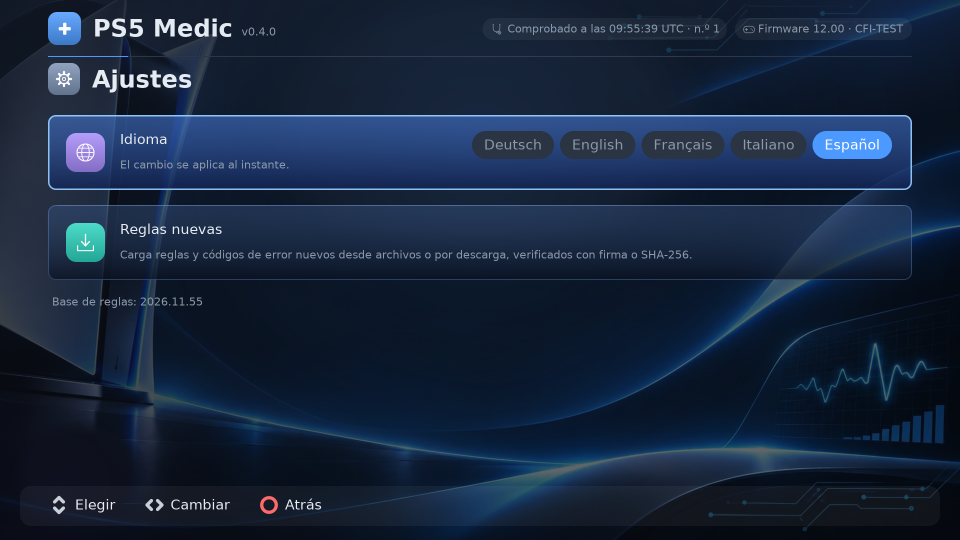
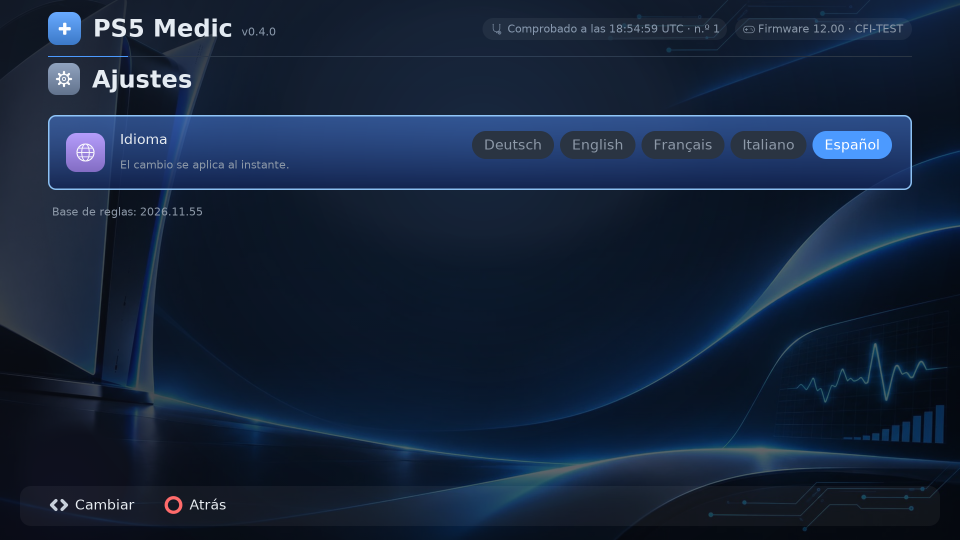
Einstellungen zeigen nur noch die Sprache: doppeltes Regel-Update entfernt, erreichbar ueber Mehr

Changed region(s): [[0.0312, 0.3556, 0.9688, 0.563], [0.0312, 0.9185, 0.3438, 0.9481], [0.6562, 0.0296, 0.6875, 0.0593]]

diff --git a/tests/test_ui.cpp b/tests/test_ui.cpp
@@ -931,13 +931,8 @@ void rules_update_flow_tests() {
         App app(svc, l);
         run_check_via_ui(app, cv);
         press(app, {Button::Circle});
-        more_open(app, 6);  // Einstellungen liegen unter Mehr
-        CHECK(app.screen() == App::Screen::Settings, "Update-Flow: Einstellungen");
-        app.render(cv);
-        press(app, {Button::Down});
-        app.render(cv);
-        press(app, {Button::Cross});
-        CHECK(app.screen() == App::Screen::RulesUpdate && svc.update_checks == 1 && app.lang() == l, "Update-Flow: Kreuz auf Regel-Update oeffnet den Bildschirm (Sprache bleibt)");
+        more_open(app, 2);  // Mehr -> Regeln aktualisieren
+        CHECK(app.screen() == App::Screen::RulesUpdate && svc.update_checks == 1 && app.lang() == l, "Update-Flow: Kreuz auf Regeln aktualisieren oeffnet den Bildschirm (Sprache bleibt)");
 
         // keine Datei: nichts kann ausgeloest werden
         app.render(cv);
@@ -945,7 +940,7 @@ void rules_update_flow_tests() {
         app.handle(Button::Cross);
         CHECK(app.screen() == App::Screen::RulesUpdate && svc.installs == 0 && svc.rollbacks == 0, "Update-Flow: ohne Datei tut keine Taste etwas ausser Kreis");
         press(app, {Button::Circle});
-        CHECK(app.screen() == App::Screen::Settings, "Update-Flow: Kreis geht zu den Einstellungen");
+        CHECK(app.screen() == App::Screen::Maintenance, "Update-Flow: Kreis geht zurueck zu Mehr");
 
         // abgelehnt: jeder Grund wird dargestellt
         svc.offer.state = State::Rejected;
@@ -974,7 +969,7 @@ void rules_update_flow_tests() {
         CHECK(svc.installs == 1 && app.finding_count() == 0, "Update-Flow: Kreuz installiert, die alten Befunde gelten nicht mehr");
         app.render(cv);
         press(app, {Button::Cross});
-        CHECK(app.screen() == App::Screen::Settings, "Update-Flow: nach der Installation zurueck zu den Einstellungen");
+        CHECK(app.screen() == App::Screen::Maintenance, "Update-Flow: nach der Installation zurueck zu Mehr");
         press(app, {Button::Circle});
         app.render(cv);  // Start: kein Ergebnis mehr
 
@@ -986,12 +981,12 @@ void rules_update_flow_tests() {
         App app2(fail, l);
         run_check_via_ui(app2, cv);
         press(app2, {Button::Circle});
-        more_open(app2, 6);
-        press(app2, {Button::Down, Button::Cross, Button::Cross});
+        more_open(app2, 2);
+        press(app2, {Button::Cross});
         CHECK(fail.installs == 1 && app2.screen() == App::Screen::RulesUpdate, "Update-Flow: Fehlschlag wird angezeigt");
         app2.render(cv);
         press(app2, {Button::Cross});
-        CHECK(app2.screen() == App::Screen::Settings, "Update-Flow: nach dem Fehlschlag zurueck");
+        CHECK(app2.screen() == App::Screen::Maintenance, "Update-Flow: nach dem Fehlschlag zurueck");
         fail.install_result.error = "voellig_unbekannt";  // unbekannte Kennung: allgemeiner Text
         press(app2, {Button::Cross, Button::Cross});
         app2.render(cv);
@@ -1001,7 +996,7 @@ void rules_update_flow_tests() {
         svc.offer.old_version = "2026.12.01";
         svc.offer.can_rollback = true;
         svc.offer.installed_version = "2026.12.01";
-        press(app, {Button::Cross, Button::Cross});  // Start steht auf Einstellungen, dort auf Regel-Update
+        more_open(app, 2);  // Start -> Mehr -> Regeln aktualisieren
         app.render(cv);
         press(app, {Button::Triangle});
         CHECK(svc.rollbacks == 0, "Update-Flow: Dreieck fragt nur nach, setzt nichts zurueck");
@@ -1051,16 +1046,15 @@ void rules_update_service_tests() {
 
         App app(svc);
         Canvas cv(App::kWidth, App::kHeight);
-        more_open(app, 6);
-        press(app, {Button::Down, Button::Cross});
-        CHECK(app.screen() == App::Screen::RulesUpdate, "Update-E2E: Einstellungen -> Regel-Update");
+        more_open(app, 2);
+        CHECK(app.screen() == App::Screen::RulesUpdate, "Update-E2E: Mehr -> Regeln aktualisieren");
         app.render(cv);
         press(app, {Button::Cross});
         app.render(cv);
         CHECK(slurp(t.dir / "fs/data/ps5medic/knowledge/rules.json") == new_text, "Update-E2E: Kreuz installiert die neue Datei");
         CHECK(svc.run_check().rules_version == "2026.12.01", "Update-E2E: die neuen Regeln gelten sofort");
 
-        press(app, {Button::Cross, Button::Down, Button::Cross});  // zurueck, wieder oeffnen
+        press(app, {Button::Cross, Button::Cross});  // zurueck nach Mehr, wieder oeffnen
         CHECK(svc.check_rule_update().can_rollback, "Update-E2E: Rollback ist moeglich");
         press(app, {Button::Triangle, Button::Cross});
         CHECK(!fs::exists(t.dir / "fs/data/ps5medic/knowledge/rules.json"), "Update-E2E: Rollback legt die Datei beiseite");
@@ -1101,8 +1095,7 @@ void rules_download_flow_tests() {
         svc.offer.old_version = "2026.11.08";
         svc.offer.old_rule_count = 22;
         App app(svc, l);
-        more_open(app, 6);  // Start -> Mehr -> Einstellungen
-        press(app, {Button::Down, Button::Cross});  // -> Regel-Update
+        more_open(app, 2);  // Start -> Mehr -> Regeln aktualisieren
         CHECK(app.screen() == App::Screen::RulesUpdate && svc.downloads == 0, "Download-Flow: Regel-Update offen, noch nichts geholt");
         app.render(cv);
 
@@ -1143,7 +1136,7 @@ void rules_download_flow_tests() {
         app.render(cv);
         press(app, {Button::Cross});
         CHECK(svc.installs == 1, "Download-Flow: installiert wird erst mit dem Kreuz auf dem Angebot");
-        press(app, {Button::Cross});  // Fertig-Bildschirm -> Einstellungen
+        press(app, {Button::Cross});  // Fertig-Bildschirm -> Mehr
 
         // Fehlschlag: Meldung, nichts angeboten, Kreuz kehrt zurueck
         svc.download_result = {};
@@ -1151,7 +1144,7 @@ void rules_download_flow_tests() {
         svc.download_result.http_status = 404;
         svc.download_result.file = "rules.json";
         svc.offer = RuleUpdateOffer{};
-        press(app, {Button::Down, Button::Cross});  // Einstellungen: Regel-Update
+        press(app, {Button::Cross});  // Mehr: Regeln aktualisieren
         CHECK(app.screen() == App::Screen::RulesUpdate, "Download-Flow: wieder im Regel-Update");
         press(app, {Button::Square, Button::Cross});
         app.render(cv);
@@ -1226,8 +1219,7 @@ void rules_download_service_tests() {
     };
     auto clock = [] { return std::string("20261109T140000Z"); };
     auto go_to_update = [](App& app) {
-        more_open(app, 6);
-        press(app, {Button::Down, Button::Cross});
+        more_open(app, 2);
     };
 
     {  // gueltig signiert: angeboten und installiert
@@ -1514,14 +1506,14 @@ void shoulder_and_stick_flow_tests() {
         press(a, {Button::Circle});
         CHECK(a.screen() == App::Screen::Start && !a.quit_requested(), "Mehr: Kreis fuehrt ins Startbild");
     }
-    {  // Einstellungen: L1/R1 wie Hoch/Runter
+    {  // Einstellungen: nur die Sprache (das Regel-Update liegt unter Mehr, nicht doppelt hier)
         App a(svc);
         more_open(a, 6);
         CHECK(a.screen() == App::Screen::Settings, "Einstellungen offen");
-        press(a, {Button::R1, Button::Cross});
-        CHECK(a.screen() == App::Screen::RulesUpdate, "Einstellungen: R1 waehlt Regel-Update");
-        press(a, {Button::Circle, Button::L1, Button::Right});
-        CHECK(a.lang() == Lang::En, "Einstellungen: L1 waehlt die Sprache, Rechts wechselt sie");
+        press(a, {Button::Down, Button::R1});
+        CHECK(a.screen() == App::Screen::Settings, "Einstellungen: Runter/R1 oeffnen kein Regel-Update");
+        press(a, {Button::Right});
+        CHECK(a.lang() == Lang::En, "Einstellungen: Rechts wechselt die Sprache");
     }
     {  // Details: zwischen den Befunden blaettern
         App a(svc);
@@ -2542,8 +2534,7 @@ void codes_update_flow_tests() {
     Canvas cv(App::kWidth, App::kHeight);
     Strings::missing().clear();
     auto go_to_update = [](App& a) {
-        more_open(a, 6);
-        press(a, {Button::Down, Button::Cross});
+        more_open(a, 2);
     };
     auto ready = [](const std::string& v, std::size_t n) {
         RuleUpdateOffer o;
@@ -2573,8 +2564,8 @@ void codes_update_flow_tests() {
         CHECK(svc.codes_installs == 1 && svc.installs == 0, "Codes-Flow: Kreuz installiert nur die Fehlercodes");
         a.render(cv);
         press(a, {Button::Cross});
-        CHECK(a.screen() == App::Screen::Settings, "Codes-Flow: Kreuz kommt zurueck");
-        press(a, {Button::Circle, Button::Circle});
+        CHECK(a.screen() == App::Screen::Maintenance, "Codes-Flow: Kreuz kommt zurueck");
+        press(a, {Button::Circle});
         CHECK(a.screen() == App::Screen::Start && a.finding_count() == 1, "Codes-Flow: Fehlercodes aendern die Befunde nicht");
         open_error_codes_via_ui(a);
         CHECK(a.selected_error_id() == svc.errors_after_codes_install.codes[0].id && a.error_selected() == 0, "Codes-Flow: die neue Liste gilt sofort");
@@ -2606,7 +2597,7 @@ void codes_update_flow_tests() {
         a.render(cv);
         CHECK(svc.installs == 1 && svc.codes_installs == 1 && a.finding_count() == 0, "Codes-Flow: gescheiterte Fehlercodes machen die installierten Regeln nicht rueckgaengig");
         press(a, {Button::Cross});
-        CHECK(a.screen() == App::Screen::Settings, "Codes-Flow: Fehlerbildschirm schliesst mit Kreuz");
+        CHECK(a.screen() == App::Screen::Maintenance, "Codes-Flow: Fehlerbildschirm schliesst mit Kreuz");
     }
     {  // Regeln scheitern, Fehlercodes gehen
         FakeService svc = base;
@@ -2676,7 +2667,7 @@ void codes_update_flow_tests() {
         CHECK(a.screen() == App::Screen::RulesUpdate && svc.downloads == 1, "Codes-Flow: Download gelaufen");
         for (const char* err : {"net_timeout", "write_failed"}) {
             svc.download_result.codes_error = err;
-            press(a, {Button::Circle, Button::Down, Button::Cross, Button::Square, Button::Cross});
+            press(a, {Button::Circle, Button::Cross, Button::Square, Button::Cross});
             a.render(cv);
             a.update();
             a.render(cv);
@@ -2717,8 +2708,7 @@ void codes_update_service_tests() {
     };
     auto clock = [] { return std::string("20261109T170000Z"); };
     auto go_to_update = [](App& a) {
-        more_open(a, 6);
-        press(a, {Button::Down, Button::Cross});
+        more_open(a, 2);
     };
     Canvas cv(App::kWidth, App::kHeight);
     Strings::missing().clear();
@@ -2741,7 +2731,7 @@ void codes_update_service_tests() {
         a.render(cv);
         CHECK(slurp(t.dir / "fs/data/ps5medic/knowledge/error_codes.json") == new_text && svc.error_codes().db_version == "2026.12.31", "Codes-E2E: Kreuz installiert, die neuen Fehlercodes gelten sofort");
         CHECK(!fs::exists(t.dir / "fs/data/ps5medic/knowledge/rules.json"), "Codes-E2E: die Regeln bleiben unberuehrt");
-        press(a, {Button::Cross, Button::Down, Button::Cross});  // zurueck, wieder oeffnen
+        press(a, {Button::Cross, Button::Cross});  // zurueck nach Mehr, wieder oeffnen
         CHECK(svc.check_codes_update().can_rollback, "Codes-E2E: Rollback moeglich");
         a.render(cv);
         press(a, {Button::Triangle});

diff --git a/ui/src/app.cpp b/ui/src/app.cpp
@@ -918,10 +918,8 @@ void App::handle(Button b) {
     const Screen before = screen_;
     handle_impl(b);
     if (screen_ == Screen::Findings && before != Screen::Findings) maint_origin_ = false;  // wer in den Befunden landet, kommt nicht mehr aus "Mehr" (sonst fuehrt Kreis im Bericht dorthin statt zu den Befunden)
-    if (before == Screen::Settings && screen_ == Screen::RulesUpdate) rules_via_settings_ = true;       // das Regel-Update wurde aus den Einstellungen geoeffnet: Kreis geht dorthin zurueck
-    else if (before == Screen::Maintenance && screen_ == Screen::RulesUpdate) rules_via_settings_ = false;
     // Ein aus "Mehr" geoeffneter Bildschirm fuehrt mit Kreis zurueck dorthin, nicht ins Startbild
-    if (maint_origin_ && before != screen_ && (screen_ == Screen::Start || (screen_ == Screen::Settings && before == Screen::RulesUpdate && !rules_via_settings_))) {  // das Regel-Update kennt sonst nur die Einstellungen als Ziel
+    if (maint_origin_ && before != screen_ && screen_ == Screen::Start) {
         maint_origin_ = false;
         screen_ = Screen::Maintenance;
     }
@@ -1180,9 +1178,7 @@ void App::handle_impl(Button b) {
             } else if (b == Button::Circle) screen_ = Screen::History;
             break;
         case Screen::Settings:
-            if (b == Button::Up || b == Button::L1) settings_sel_ = 0;
-            else if (b == Button::Down || b == Button::R1) settings_sel_ = 1;
-            else if (settings_sel_ == 0 && (b == Button::Left || b == Button::Right || b == Button::Cross)) {
+            if (b == Button::Left || b == Button::Right || b == Button::Cross) {
                 const int n = static_cast<int>(sizeof kAllLangs / sizeof kAllLangs[0]);
                 int i = 0;
                 while (i < n && kAllLangs[i] != lang_) ++i;
@@ -1190,7 +1186,6 @@ void App::handle_impl(Button b) {
                 refresh_game_names();  // "Betrifft: ..." und Namen in der neuen Sprache
                 (void)svc_.set_language(lang_code(lang_));  // scheitert das Speichern, gilt die Sprache nur fuer diese Sitzung
             }
-            else if (settings_sel_ == 1 && b == Button::Cross) open_rules_update();
             else if (b == Button::Circle) screen_ = Screen::Start;
             break;
         case Screen::RulesUpdate:
@@ -1204,7 +1199,7 @@ void App::handle_impl(Button b) {
                         download_url_ = svc_.rule_update_url();
                         update_stage_ = UpdateStage::ConfirmDownload;
                     } else if (b == Button::Circle) {
-                        screen_ = Screen::Settings;
+                        screen_ = Screen::Start;  // aus "Mehr" geoeffnet: handle() fuehrt von dort zurueck nach "Mehr"
                     }
                     break;
                 case UpdateStage::ConfirmDownload:
@@ -1230,7 +1225,7 @@ void App::handle_impl(Button b) {
                     break;
                 case UpdateStage::DoneOk:
                 case UpdateStage::DoneFail:
-                    if (b == Button::Cross || b == Button::Circle) screen_ = Screen::Settings;
+                    if (b == Button::Cross || b == Button::Circle) screen_ = Screen::Start;
                     break;
             }
             break;
@@ -3034,7 +3029,7 @@ void App::draw_undo_confirm(Canvas& c) const {
 void App::draw_settings(Canvas& c) const {
     const auto& S = Strings::get(lang_);
     title_icon(c, Icon::Gear, kTintSlate, S("settings.title"));
-    card(c, M, 230, W - 2 * M, 150, settings_sel_ == 0);
+    card(c, M, 230, W - 2 * M, 150, true);
     draw_icon_badge(c, Icon::Globe, M + 36, 266, 78, kTintViolet);
     body().draw(c, M + 144, 262, S("settings.language"), kText);
     small().draw(c, M + 144, 316, S("settings.note"), kDim);
@@ -3049,13 +3044,8 @@ void App::draw_settings(Canvas& c) const {
         body().draw(c, x + 24, 262 + (56 - body().line_height()) / 2, name, on ? rgb(255, 255, 255) : kDim);
         x -= 12;
     }
-    card(c, M, 410, W - 2 * M, 150, settings_sel_ == 1);
-    draw_icon_badge(c, Icon::Download, M + 36, 446, 78, kTintTeal);
-    body().draw(c, M + 144, 442, S("settings.rules_update"), kText);
-    small().draw(c, M + 144, 496, S("settings.rules_update_sub"), kDim);
-    if (has_result_ && !result_.rules_version.empty()) small().draw(c, M + 8, 590, S.fmt("settings.rules", {{"v", result_.rules_version}}), kDim);
-    if (settings_sel_ == 0) draw_hints(c, {{PadGlyph::UpDown, S("common.select")}, {PadGlyph::LeftRight, S("common.toggle")}, {PadGlyph::Circle, S("common.back")}});
-    else draw_hints(c, {{PadGlyph::UpDown, S("common.select")}, {PadGlyph::Cross, S("common.open")}, {PadGlyph::Circle, S("common.back")}});
+    if (has_result_ && !result_.rules_version.empty()) small().draw(c, M + 8, 410, S.fmt("settings.rules", {{"v", result_.rules_version}}), kDim);
+    draw_hints(c, {{PadGlyph::LeftRight, S("common.toggle")}, {PadGlyph::Circle, S("common.back")}});
 }
 
 void App::draw_rules_update(Canvas& c) const {

diff --git a/ui/include/medic_ui/app.hpp b/ui/include/medic_ui/app.hpp
@@ -205,7 +205,6 @@ private:
     int hist_sel_ = 0, hist_top_ = 0;
     medic::TxnInfo undo_target_;
 
-    int settings_sel_ = 0;  // 0 Sprache, 1 Regel-Update
 
     // Archiv der Check-ups: Liste, ein gespeicherter Check-up im Befund-Bildschirm ("viewing_old_": nur ansehen, nie reparieren) und Vergleich
     std::vector<medic::CheckSummary> chk_;
@@ -228,7 +227,6 @@ private:
     bool detail_from_game_ = false;
     int rep_sel_ = 0, rep_top_ = 0;     // Reparaturen: Auswahl in der Liste der reparierbaren Befunde
     int maint_sel_ = 0;                  // Wartung: gewaehlter Eintrag
-    bool rules_via_settings_ = false;    // das Regel-Update wurde aus den Einstellungen (nicht aus "Mehr") geoeffnet
     bool maint_origin_ = false;          // ein Unterbildschirm wurde aus der Wartung geoeffnet: Kreis fuehrt dorthin zurueck
     bool after_check_repairs_ = false;   // Reparaturen ohne Check-up gewaehlt: nach dem Check-up direkt die Liste zeigen
     bool after_check_report_ = false;  // Bericht ohne Check-up gewaehlt: nach dem Check-up direkt den Bericht zeigen

diff --git a/docs/TESTER.md b/docs/TESTER.md
@@ -50,7 +50,7 @@ PS5 Medic lädt **nie von selbst** etwas aus dem Netz. Ein Regel-Update ist entw
 
 1. Neue `rules.json` aus dem Release holen und daneben die Prüfsumme anlegen: `sha256sum rules.json > rules.json.sha256`.
 2. Beide Dateien per FTP oder USB-Kopie nach `/data/ps5medic/knowledge/update/` legen.
-3. In PS5 Medic: Einstellungen, **Regel-Update**. Der Bildschirm zeigt die gefundene Version und ob die SHA-256-Prüfsumme stimmt. **✕** installiert, die bisherige Datei wird vorher gesichert (`/data/ps5medic/knowledge/backups/`), nichts wird gelöscht. Mit **△** lässt sich die letzte Installation zurücknehmen.
+3. In PS5 Medic: Mehr, **Regeln aktualisieren**. Der Bildschirm zeigt die gefundene Version und ob die SHA-256-Prüfsumme stimmt. **✕** installiert, die bisherige Datei wird vorher gesichert (`/data/ps5medic/knowledge/backups/`), nichts wird gelöscht. Mit **△** lässt sich die letzte Installation zurücknehmen.
 
 **Download:** im Bildschirm **Regel-Update** **□** drücken (ohne Eintrag in `config.ini` holt PS5 Medic von GitHub, `https://raw.githubusercontent.com/strongt1me/ps5-medic-ui-tool/main/rules-update/`; eine andere Quelle trägst du als Zeile `update_url=http://<Adresse>/` oder `https://…` in `/data/ps5medic/config.ini` ein), die Rückfrage mit **✕** bestätigen. PS5 Medic holt `rules.json` und `rules.json.sig`, prüft die Ed25519-Signatur gegen den eingebauten Schlüssel und bietet die Datei erst dann an; installiert wird wieder erst mit **✕**. Ohne gültige Signatur wird die Datei abgelehnt, auch wenn eine Prüfsumme passt. `https://` läuft über das eingebaute TLS (BearSSL; Datum und Uhrzeit der Konsole müssen stimmen), `http://` ohne TLS; die Signatur sichert in beiden Fällen die Echtheit. Keine Weiterleitungen.
 
@@ -68,4 +68,4 @@ Die Prüfsumme schützt vor beschädigten oder abgeschnittenen Kopien. Sie schü
 
 ## English summary
 
-PS5 Medic has only been tested on one console (PS5 Pro, FW 12.00). Testers on other firmwares (4.00 to 14.10), other jailbreak chains and ShadowMount+ versions are needed. Install the release (copy `PS5MEDIC` and `FAKE42007` to `/data/homebrew/`, with the ELF loader on port 9021 running), open the **PS5 Medic** tile, run the check-up (✕), press □ and paste the anonymized report into an issue (template: *Report a problem*). Read it first: file and folder names are still in it. Nothing is ever sent by PS5 Medic. Rule updates are files you copy to `/data/ps5medic/knowledge/update/` together with a `rules.json.sha256`, or a download you trigger yourself (□ in the rule update screen; by default from GitHub, or from your own `update_url=http://...` / `https://...` in `/data/ps5medic/config.ini`); downloads are only accepted with a valid Ed25519 signature. The settings screen verifies and installs them (backup first, roll-back with △).
+PS5 Medic has only been tested on one console (PS5 Pro, FW 12.00). Testers on other firmwares (4.00 to 14.10), other jailbreak chains and ShadowMount+ versions are needed. Install the release (copy `PS5MEDIC` and `FAKE42007` to `/data/homebrew/`, with the ELF loader on port 9021 running), open the **PS5 Medic** tile, run the check-up (✕), press □ and paste the anonymized report into an issue (template: *Report a problem*). Read it first: file and folder names are still in it. Nothing is ever sent by PS5 Medic. Rule updates are files you copy to `/data/ps5medic/knowledge/update/` together with a `rules.json.sha256`, or a download you trigger yourself (□ in the rule update screen; by default from GitHub, or from your own `update_url=http://...` / `https://...` in `/data/ps5medic/config.ini`); downloads are only accepted with a valid Ed25519 signature. The rule update screen (More, *Update rules*) verifies and installs them (backup first, roll-back with △).

diff --git a/CHANGELOG.md b/CHANGELOG.md
@@ -2,6 +2,8 @@
 
 ## Unveröffentlicht / Unreleased
 
+- **Deutsch:** Die Einstellungen zeigen nur noch die Sprache. Der doppelte Eintrag „Regel-Update“ ist entfernt, das Regel-Update öffnet man unter Mehr → „Regeln aktualisieren“ (derselbe Bildschirm); Kreis führt von dort zurück nach Mehr.
+- **English:** Settings now only show the language. The duplicate "Rule update" entry is removed; the rule update is opened from More → "Update rules" (same screen); Circle leads back to More.
 - **Deutsch:** Der Kopf der Oberfläche zeigt, **wann** der angezeigte Check-up lief („Geprüft 10:32:07 UTC · Nr. 3“; die Nummer zählt die Check-ups seit dem Start bzw. dem Zurücksetzen). Neu im Startbild: **△ Zurücksetzen** leert die Anzeige (Befunde, Spiele, Ergebnis); danach steht das Startbild wieder auf „Bereit für den Check-up“, und der nächste Check-up beginnt bei Null. Ein Check-up liest ohnehin jedes Mal neu von der Konsole und ersetzt das alte Ergebnis; Verlauf, gespeicherte Check-ups, Backups und ausgeblendete Befunde bleiben unberührt.
 - **English:** The header now shows **when** the displayed check-up ran ("Checked 10:32:07 UTC · No. 3"; the number counts check-ups since start or since the last reset). New on the start screen: **△ Reset** clears the display (findings, games, result); the start screen then shows "Ready for the check-up" again and the next check-up starts from zero. A check-up always reads fresh from the console and replaces the old result anyway; history, stored check-ups, backups and hidden findings are untouched.
 - **Deutsch:** Fehlerprüfung der ganzen App, behoben: Der Regel-Download bricht bei einem toten DNS-Server nach dem Zeitlimit ab (statt lange zu hängen); ein chunked-Antwortkörper endet am Schluss-Chunk, auch wenn der Server die Verbindung offen lässt; eine große Fehlerseite (404) meldet den Status statt „zu groß“; der QR-Kurzbericht schneidet nicht mehr mitten in ein UTF-8-Zeichen. In der Oberfläche prüft „Bericht“ aus Mehr ohne Check-up erst und zeigt dann den Bericht, Kreis im Bericht führt nach Mehr zurück, und zwei Texte im Statusfeld des Startbilds sind kürzer. Die nicht mehr erreichbare Meldung „https nur auf der Konsole“ ist entfernt.

diff --git a/docs/PHASE5.md b/docs/PHASE5.md
@@ -4,7 +4,7 @@ Stand 8. Nov. 2026. Regel-Update (Datei und signierter Download), unbekannte Feh
 
 ## 1. Regel-Update (Datei oder signierter Download)
 
-`libmedic/src/rule_update.cpp` (prüfen, installieren, zurücksetzen), `rule_download.cpp` und `http.cpp`/`posix_http.cpp` (Download), `signature.cpp`/`ed25519.cpp` (Signatur); in der UI unter Einstellungen → *Regel-Update*.
+`libmedic/src/rule_update.cpp` (prüfen, installieren, zurücksetzen), `rule_download.cpp` und `http.cpp`/`posix_http.cpp` (Download), `signature.cpp`/`ed25519.cpp` (Signatur); in der UI unter Mehr → *Regeln aktualisieren*.
 
 **Zwei Wege in denselben Ordner** `/data/ps5medic/knowledge/update/`:
 - **Datei-Update (ohne Netz):** Der Nutzer legt `rules.json` und `rules.json.sha256` selbst dorthin (FTP, USB-Kopie). Die Prüfsumme schützt vor beschädigten Kopien, nicht vor einer absichtlich untergeschobenen Datei samt Prüfsumme; wer Dateien auf die Konsole legen kann, kann ohnehin mehr.

diff --git a/docs/COMMUNITY.md b/docs/COMMUNITY.md
@@ -4,7 +4,7 @@ Stand 12. Nov. 2026. So entstehen neue Regeln aus Fehlern, die bei anderen Nutze
 
 ```
 Nutzer: Bericht (□)  ->  Issue im Repository  ->  Bot sortiert vor  ->  Maintainer prüft  ->  Regel + Fixture + Test + Übersetzungen
-     ->  rules.json signieren (make sign-rules)  ->  Nutzer: Regel-Update (Einstellungen)
+     ->  rules.json signieren (make sign-rules)  ->  Nutzer: Regeln aktualisieren (Mehr)
 ```
 
 ## 1. Bericht einsenden
